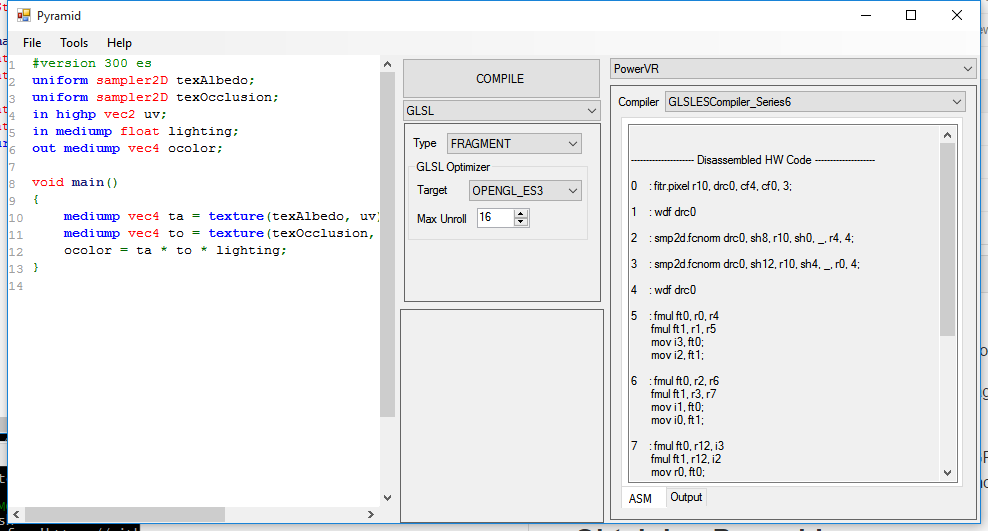
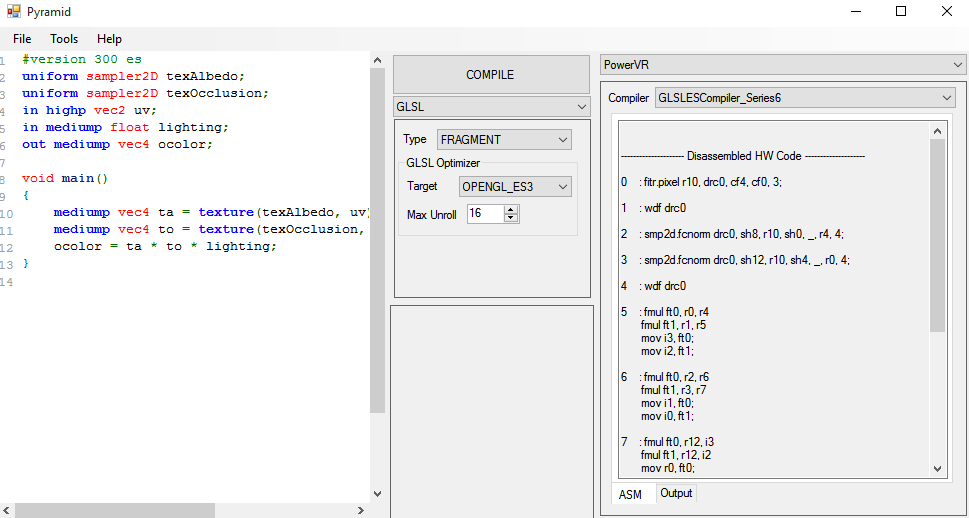
thumbnails

Changed region(s): [[0.0, 0.0, 1.0, 1.0], [0.6811, 0.278, 0.8359, 0.3089]]

diff --git a/README.md b/README.md
@@ -3,8 +3,8 @@
 Pyramid is a free, open GUI tool for offline shader validation and analysis. The UI takes HLSL or GLSL as input, and runs them through various shader
 compilers and static analyzers.
 
-![AMD GCN from HLSL](doc/ui-hlsl-amddxx.png)
-![PowerVR disassembly from GLSL](doc/ui-glsl-powervr.png)
+[![AMD GCN from HLSL](doc/ui-hlsl-amddxx-thumb.png)](doc/ui-hlsl-amddxx.png)
+[![PowerVR disassembly from GLSL](doc/ui-glsl-powervr-thumb.png)](doc/ui-glsl-powervr.png)
 
 Pyramid is intended to eventually support arbitrary languages and glue together tools and disassemblers from all over
 the graphics world.
